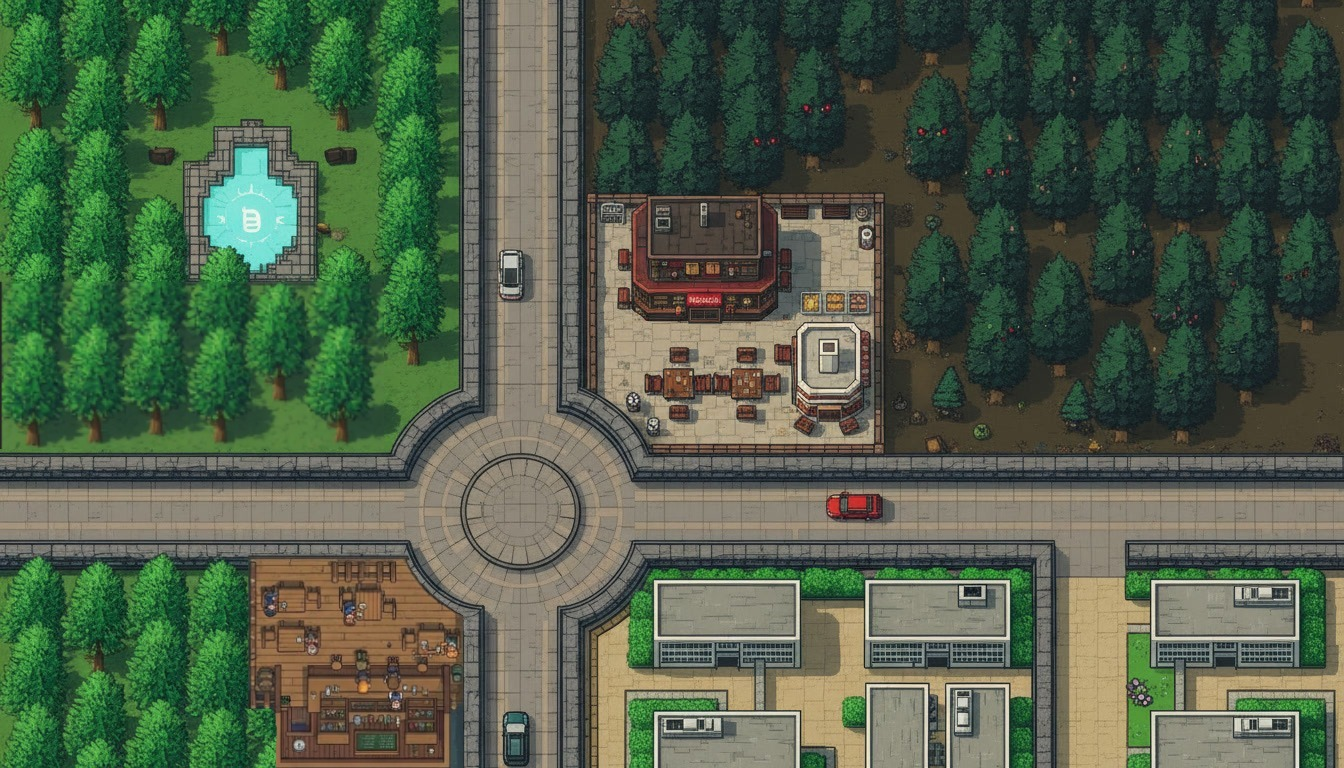
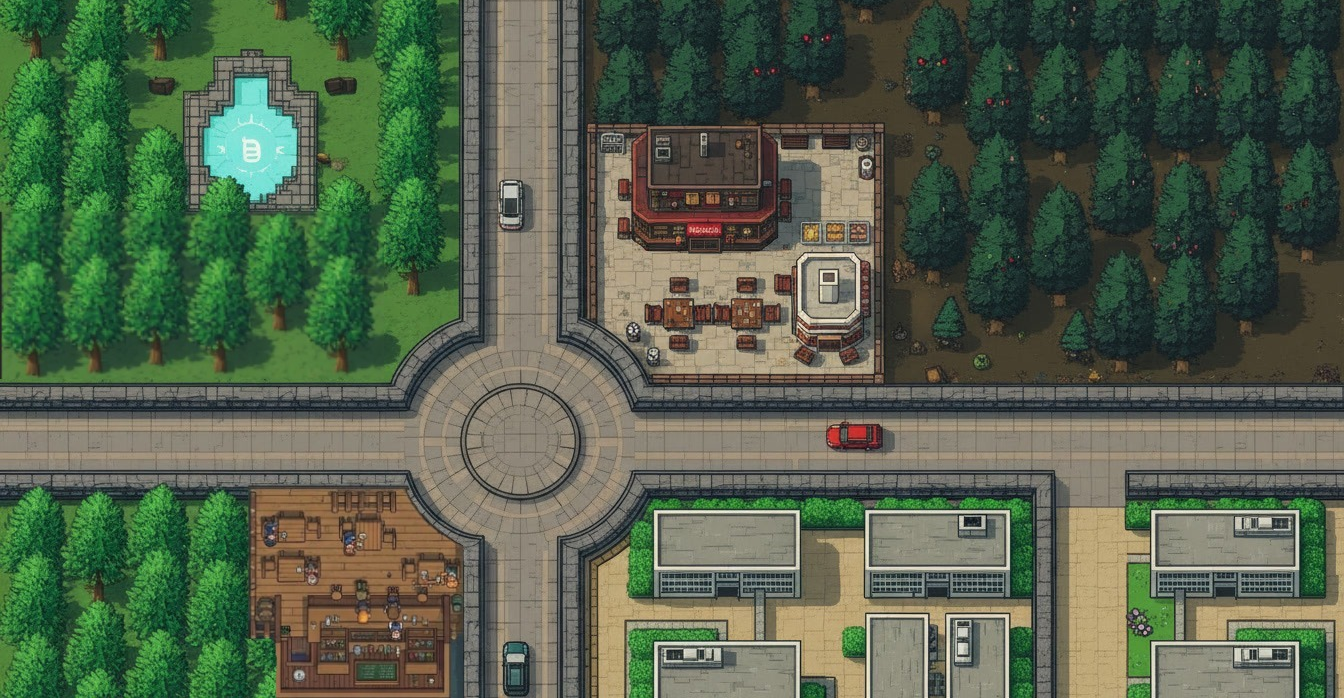
primeira fumegada da bet, vou refazer ela do 0, nas gostei

diff --git a/src/main.c b/src/main.c
@@ -42,7 +42,12 @@ int main(void){
 
 //%%%%%%%%%%%%%%%%%%%%%%%%%%%%%%%%%%%%%%%%%%%%%%%%%%%%%%%%%%%%
             //inicia as texturas do menu, e o som
-        Texture2D fundo = LoadTexture("assets/fundo.png");
+        Image imagem_gigante = LoadImage("assets/fundo_pixel.png");
+
+        ImageResize(&imagem_gigante, 1280, 720);
+
+        Texture2D fundo = LoadTextureFromImage(imagem_gigante);
+
         Music musica_menu = LoadMusicStream("assets/musica1.mp3");
 
 
@@ -54,16 +59,25 @@ int acao = Tela_Home(fundo,musica_menu);
 
 if(acao == 1){
     printf("\nClicou na taca\n");
-    
-    Texture2D fundo_jogo = LoadTexture("assets/mapa.png");
-    //Music musica_jogo = LoadMusicStream("assets/musica2.mp3");
-    
-    Tela_Jogo(fundo_jogo,musica_menu);
+
+    Image imagem_mapa = LoadImage("assets/mapa_dia.png");
+    ImageResize(&imagem_mapa, 1280, 720);
+    Texture2D fundo_jogo = LoadTextureFromImage(imagem_mapa);
+    UnloadImage(imagem_mapa); 
+
+    StopMusicStream(musica_menu); 
+
+    Music musica_cidade = LoadMusicStream("assets/som_ambiente.mp3"); 
+    PlayMusicStream(musica_cidade);
+
+    Tela_Jogo(fundo_jogo, musica_cidade);
 
     UnloadTexture(fundo_jogo);
-    }else{
-        printf("\nFechou a janela, saindo.....\n");
-    }//final do if
+    UnloadMusicStream(musica_cidade); 
+
+} else {
+    printf("\nFechou a janela, saindo.....\n");
+}
 //%%%%%%%%%%%%%%%%%%%%%%%%%%%%%%%%%%%%%%%%%%%%%%%%%%%%%%%%%%%%%%%%%%%%%%%%%%%%%%%%%%%%%%%%%%%%%%%%%%%%%%%%%%%%%%%%%%%
  
 //-------------------------------------incializa o album---------------------------------------------------

diff --git a/include/textura.h b/include/textura.h
@@ -3,5 +3,10 @@
 
 int Tela_Home(Texture2D fundo, Music musica);
 void Tela_Jogo(Texture2D fundo_jogo, Music musica);
+int Tela_Diltu(Music musica, float *saldo_jogador);
+void Tela_Aposta(float *saldo_jogador);
+
+
+
 
 #endif